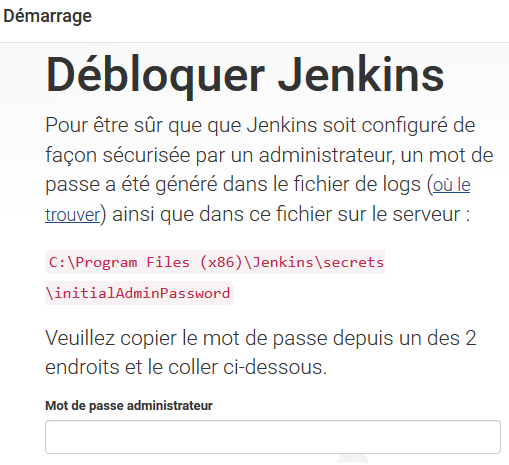
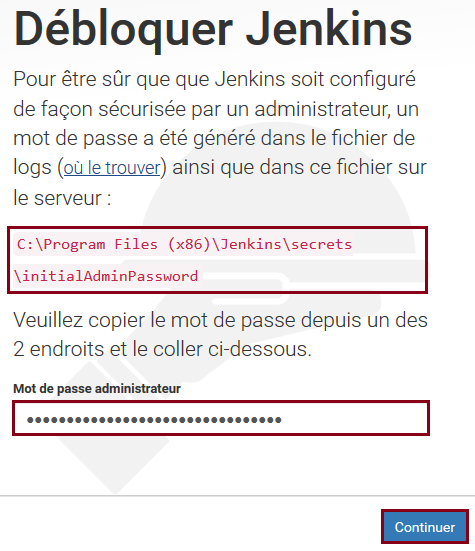
Initial Commit

diff --git a/Tutoriels/Java/Cours/page/main.php b/Tutoriels/Java/Cours/page/main.php
@@ -1,1 +1,25 @@
-<div class="Parallax GParallax1"><div class="Img Binary"><div class="Caption"><a href="#"><div class="Text">Apprendre la programmation avec le C#</div></a></div></div><div class="Body2 Orange">Le Java est un langage de programmation orientée objet.<br>Le but de ce tutoriel est de vous apprendre la programmation avec le Java.<br>Produit par <b>Gérard KESSE</b>.<br>&nbsp;<br><div class="Content0 GSummary1"><div class="Body0" id="Loader_1529412976174"><div class="Row26">Summary 1</div></div><script>loadSummary1("Loader_1529412976174");</script></div></div></div><br><div class="Content2 GTitle1"><div class="MainBlock2"><div class="Content"><h1 class="Title2 Center" id="Installation sous Windows"><a class="Link3" href="#">Installation sous Windows</a></h1><div class="Body3">Le but de cette section est de vous présenter les différents outils nécessaires pour apprendre la programmation avec le Java, sous Windows.<br>Produit par <b>Gérard KESSE</b>.<br><br>La programmation avec le Java nécessite un éditeur de texte pour l'édition de nos programmes et un compilateur pour la compilation de nos programmes.<br><br>Dans ce tutoriel, nous utiliserons, sous Windows:<br>- Java JDK, comme compilateur.<br>- Notepad++, comme éditeur de texte.<br><br><h3 class="Title8 GTitle3">Télécharger Java JDK<br></h3><a class="Link7 GLink1" style="color:lime;" target="_blank" href="http://www.oracle.com/technetwork/java/javase/archive-139210.html">http://www.oracle.com/technetwork/java/javase/archive-139210.html</a><br><br><h3 class="Title8 GTitle3">Télécharger Notepad++</h3><a class="Link7 GLink1" style="color:lime;" href="https://notepad-plus-plus.org/fr/">https://notepad-plus-plus.org/fr/</a></div></div></div></div><br>
+<div class="Parallax GParallax1"><div class="Img Binary"><div class="Caption"><a href="#"><div class="Text">Apprendre la programmation avec le Java</div></a></div></div><div class="Body2 Orange">Le <b>Java</b> est un langage de programmation orientée objet.<br>Le but de ce tutoriel est de vous apprendre la programmation avec le <b>Java</b>.<br>Produit par <b>Gérard KESSE</b>.<br>&nbsp;<br><div class="Content0 GSummary1"><div class="Body0" id="Loader_1529412976174"><div class="Row26">Summary 1</div></div><script>loadSummary1("Loader_1529412976174");</script></div></div></div><br><div class="Content2 GTitle1"><div class="MainBlock2"><div class="Content"><h1 class="Title2 Center" id="Installation sous Windows"><a class="Link3" href="#">Installation sous Windows</a></h1><div class="Body3">Le but de cette section est de vous présenter les différents outils nécessaires pour apprendre la programmation avec le <span class="GColor1" style="color:lime;">Java</span>, sous Windows.<br>Produit par <b>Gérard KESSE</b>.<br><br>Dans ce tutoriel, nous utiliserons, sous Windows:<br>- Java JDK, comme compilateur.<br>- Apache Ant, comme outil d'automatisation.<br>- Apache Maven, comme outil d'automatisation.<br>- Notepad++, comme éditeur de texte.<br><br><h3 class="Title8 GTitle3">Télécharger Java JDK<br></h3><a class="Link7 GLink1" style="color:lime;" target="_blank" href="http://www.oracle.com/technetwork/java/javase/archive-139210.html">http://www.oracle.com/technetwork/java/javase/archive-139210.html</a><br><br><h3 class="Title8 GTitle3">Télécharger Apache Ant</h3><a class="Link7 GLink1" style="color:lime;" target="_blank" href="https://ant.apache.org/bindownload.cgi">https://ant.apache.org/bindownload.cgi</a><br><br><h3 class="Title8 GTitle3">Télécharger Apache Maven</h3><a class="Link7 GLink1" style="color:lime;" target="_blank" href="https://maven.apache.org/download.cgi">https://maven.apache.org/download.cgi</a><br><br><h3 class="Title8 GTitle3">Télécharger Notepad++</h3><a class="Link7 GLink1" style="color:lime;" href="https://notepad-plus-plus.org/fr/">https://notepad-plus-plus.org/fr/</a></div></div></div></div><br><div class="Content2 GTitle1"><div class="MainBlock2"><div class="Content"><h1 class="Title2 Center" id="Utilisation de Java JDK"><a class="Link3" href="#">Utilisation de Java JDK</a></h1><div class="Body3">Le but de cette section est de vous apprendre à utiliser <span class="GColor1" style="color:lime;">Java JDK</span>, sous Windows.<br>Produit par <b>Gérard KESSE</b>.<br><br>Java JDK permet de compiler des projets Java.<br><br><h3 class="Title8 GTitle3">Programme principal (GMain.java)</h3><div class="GCode1"><pre class="Code2"><xmp class="AceCode" data-mode="java">//===============================================
+public class GMain {
+   public static void main(String[] args) {
+      System.out.println("Bonjour tout le monde");
+   }
+}
+//===============================================</xmp></pre></div><br><h3 class="Title8 GTitle3">Compiler le projet</h3><div class="GCode1"><pre class="Code2"><xmp class="AceCode" data-mode="batchfile">@echo off
+
+set PATH=C:\Program Files\Java\jdk-10.0.2\bin
+
+set GSRC=..\src
+set GBUILD=build
+
+javac %GSRC%\GMain.java ^
+-d %GBUILD%</xmp></pre></div><br><h3 class="Title8 GTitle3">Exécuter le projet</h3><div class="GCode1"><pre class="Code2"><xmp class="AceCode" data-mode="batchfile">@echo off
+
+set PATH=C:\Program Files\Java\jdk-10.0.2\bin
+
+set CLASSPATH=build
+
+echo.
+java GMain
+echo.
+
+pause</xmp></pre></div><br><h3 class="Title8 GTitle3">Resultat</h3><div class="Img3 GImage"><img src="img/Jdk.png" alt="img/Jdk.png"></div></div></div></div></div><br>

diff --git a/Tutoriels/Java/page/main.php b/Tutoriels/Java/page/main.php
@@ -1,1 +1,1 @@
-<div class="Parallax GParallax1"><div class="Img Binary"><div class="Caption"><a href="#"><div class="Text">Développement Logiciel Java</div></a></div></div><div class="Body2 Orange">Le Java est un langage de programmation orientée objet.<br>Le but de ce tutoriel est de vous apprendre la programmation avec le Java.<br>Produit par <b>Gérard KESSE</b>.<br>&nbsp;<br><div class="Content0 GSummary2"><div class="Body0" id="Loader_1529182503691"><div class="Row26">Summary 2</div></div><script>loadSummary2("Loader_1529182503691");</script></div></div></div><div class="GStyle1" style="background-color: transparent; padding: 10px; display: block; max-width: 800px; margin: auto; text-align: left; border-color: currentcolor currentcolor currentcolor rgba(255, 255, 255, 0.2); border-style: none none none solid; border-width: medium medium medium 5px; border-image: none 100% / 1 / 0 stretch; border-right: 5px solid rgba(255,255,255,0.2);"><br><h2 class="Title7 GTitle2" id="Développement logiciel"><a class="Link9" href="#">Développement logiciel</a></h2><br><div class="Content0 GList1"><div class="Body0" id="Loader_1529835864755"><div class="Row26">List 1 &gt; Java &gt; software</div></div><script>loadList1("Loader_1529835864755","Java","software");</script></div><br></div>
+<div class="Parallax GParallax1"><div class="Img Binary"><div class="Caption"><a href="#"><div class="Text">Développement Logiciel Java</div></a></div></div><div class="Body2 Orange">Le <b>Java</b> est un langage de programmation orientée objet.<br>Le but de ce tutoriel est de vous apprendre la programmation avec le <b>Java</b>.<br>Produit par <b>Gérard KESSE</b>.<br>&nbsp;<br><div class="Content0 GSummary2"><div class="Body0" id="Loader_1529182503691"><div class="Row26">Summary 2</div></div><script>loadSummary2("Loader_1529182503691");</script></div></div></div><div class="GStyle1" style="background-color: transparent; padding: 10px; display: block; max-width: 800px; margin: auto; text-align: left; border-color: currentcolor currentcolor currentcolor rgba(255, 255, 255, 0.2); border-style: none none none solid; border-width: medium medium medium 5px; border-image: none 100% / 1 / 0 stretch; border-right: 5px solid rgba(255,255,255,0.2);"><br><h2 class="Title7 GTitle2" id="Développement logiciel"><a class="Link9" href="#">Développement logiciel</a></h2><br><div class="Content0 GList1"><div class="Body0" id="Loader_1529835864755"><div class="Row26">List 1 &gt; Java &gt; software</div></div><script>loadList1("Loader_1529835864755","Java","software");</script></div><br></div>

diff --git a/Tutoriels/Jenkins/page/main.php b/Tutoriels/Jenkins/page/main.php
@@ -6,4 +6,4 @@ set GJENKINS="C:\Program Files (x86)\Jenkins"
 
 java -jar %GJENKINS%\jenkins.war
 
-pause</xmp></pre></div><br><h2 class="Title7 GTitle2" id="Configurer Jenkins-Accéder à Jenkins"><a class="Link9" href="#Configurer Jenkins">Accéder à Jenkins</a></h2><br><h3 class="Title8 GTitle3">Accéder à Jenkins</h3><a class="Link7 GLink1" style="color:lime;" target="_blank" href="http://localhost:8080/">http://localhost:8080/</a><br><br></div></div></div></div><br>
+pause</xmp></pre></div><br><h2 class="Title7 GTitle2" id="Configurer Jenkins-Accéder à Jenkins"><a class="Link9" href="#Configurer Jenkins">Accéder à Jenkins</a></h2><br><h3 class="Title8 GTitle3">Accéder à Jenkins</h3><a class="Link7 GLink1" style="color:lime;" target="_blank" href="http://localhost:8080/">http://localhost:8080/</a><br><br><h3 class="Title8 GTitle3">Récupérer le mot de passe</h3><span class="GColor1" style="color:lime;">C:\Program Files (x86)\Jenkins\secrets\initialAdminPassword</span><br><br><div class="GCode1"><pre class="Code2"><xmp class="AceCode" data-mode="sh">e21c73ac292342a1b0966f3c75c7021f</xmp></pre></div><br><h3 class="Title8 GTitle3">Débloquer Jenkins</h3><div class="Img3 GImage"><img src="img/Jenkins.png" alt="img/Jenkins.png"></div><br><h3 class="Title8 GTitle3">Installer les plugins suggérés</h3><div class="Img3 GImage"><img src="img/Jenkins_02.png" alt="img/Jenkins_02.png"></div><br><h3 class="Title8 GTitle3">Liste des plugins suggérés<br></h3><div class="Img3 GImage"><img src="img/Jenkins_03.png" alt="img/Jenkins_03.png"></div><br><h3 class="Title8 GTitle3">Créer le compte administrateur</h3><div class="Img3 GImage"><img src="img/Jenkins_04.png" alt="img/Jenkins_04.png"></div><br><h3 class="Title8 GTitle3">Configurer l'URL Jenkins</h3><div class="Img3 GImage"><img src="img/Jenkins_05.png" alt="img/Jenkins_05.png"></div><br><h3 class="Title8 GTitle3">Utiliser Jenkins</h3><div class="Img3 GImage"><img src="img/Jenkins_06.png" alt="img/Jenkins_06.png"></div><br><h2 class="Title7 GTitle2" id="Configurer Jenkins-Administrer Jenkins"><a class="Link9" href="#Configurer Jenkins">Administrer Jenkins</a></h2><br><h3 class="Title8 GTitle3">Administrer Jenkins</h3><div class="Img3 GImage"><img src="img/Jenkins_07.png" alt="img/Jenkins_07.png"></div><br><h3 class="Title8 GTitle3">Configurer le système</h3><div class="Img3 GImage"><img src="img/Jenkins_08.png" alt="img/Jenkins_08.png"></div><br><div class="Img3 GImage"><img src="img/Jenkins_09.png" alt="img/Jenkins_09.png"></div><br><br><br><br><br><br><br></div></div></div></div><br>

diff --git a/Tutoriels/Java/Cours/Jdk/src/GMain.java b/Tutoriels/Java/Cours/Jdk/src/GMain.java
@@ -1,0 +1,7 @@
+//===============================================
+public class GMain {
+   public static void main(String[] args) {
+      System.out.println("Bonjour tout le monde");
+   }
+}
+//===============================================

diff --git a/Tutoriels/Java/Cours/Jdk/index.php b/Tutoriels/Java/Cours/Jdk/index.php
@@ -1,0 +1,3 @@
+<?php
+    require $_SERVER["DOCUMENT_ROOT"]."/php/error.php";
+?>

diff --git a/Tutoriels/Java/Cours/Jdk/src/index.php b/Tutoriels/Java/Cours/Jdk/src/index.php
@@ -1,0 +1,3 @@
+<?php
+    require $_SERVER["DOCUMENT_ROOT"]."/php/error.php";
+?>

diff --git a/Tutoriels/Java/Cours/Jdk/win/index.php b/Tutoriels/Java/Cours/Jdk/win/index.php
@@ -1,0 +1,3 @@
+<?php
+    require $_SERVER["DOCUMENT_ROOT"]."/php/error.php";
+?>

diff --git a/Tutoriels/Java/Cours/img/index.php b/Tutoriels/Java/Cours/img/index.php
@@ -1,0 +1,3 @@
+<?php
+    require $_SERVER["DOCUMENT_ROOT"]."/php/error.php";
+?>
